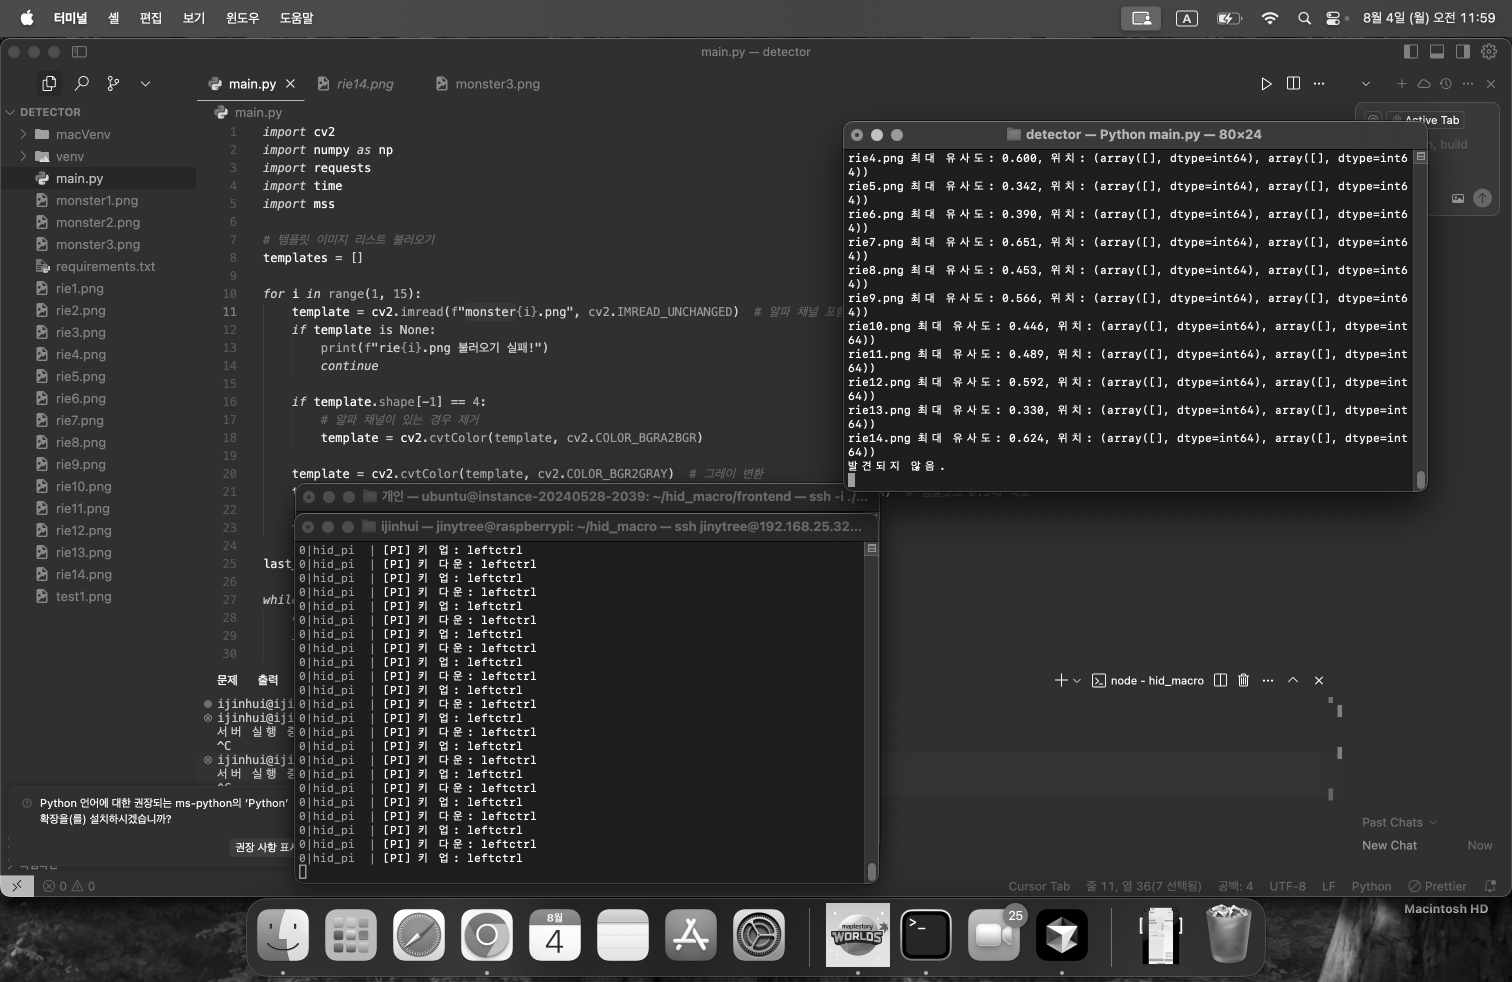
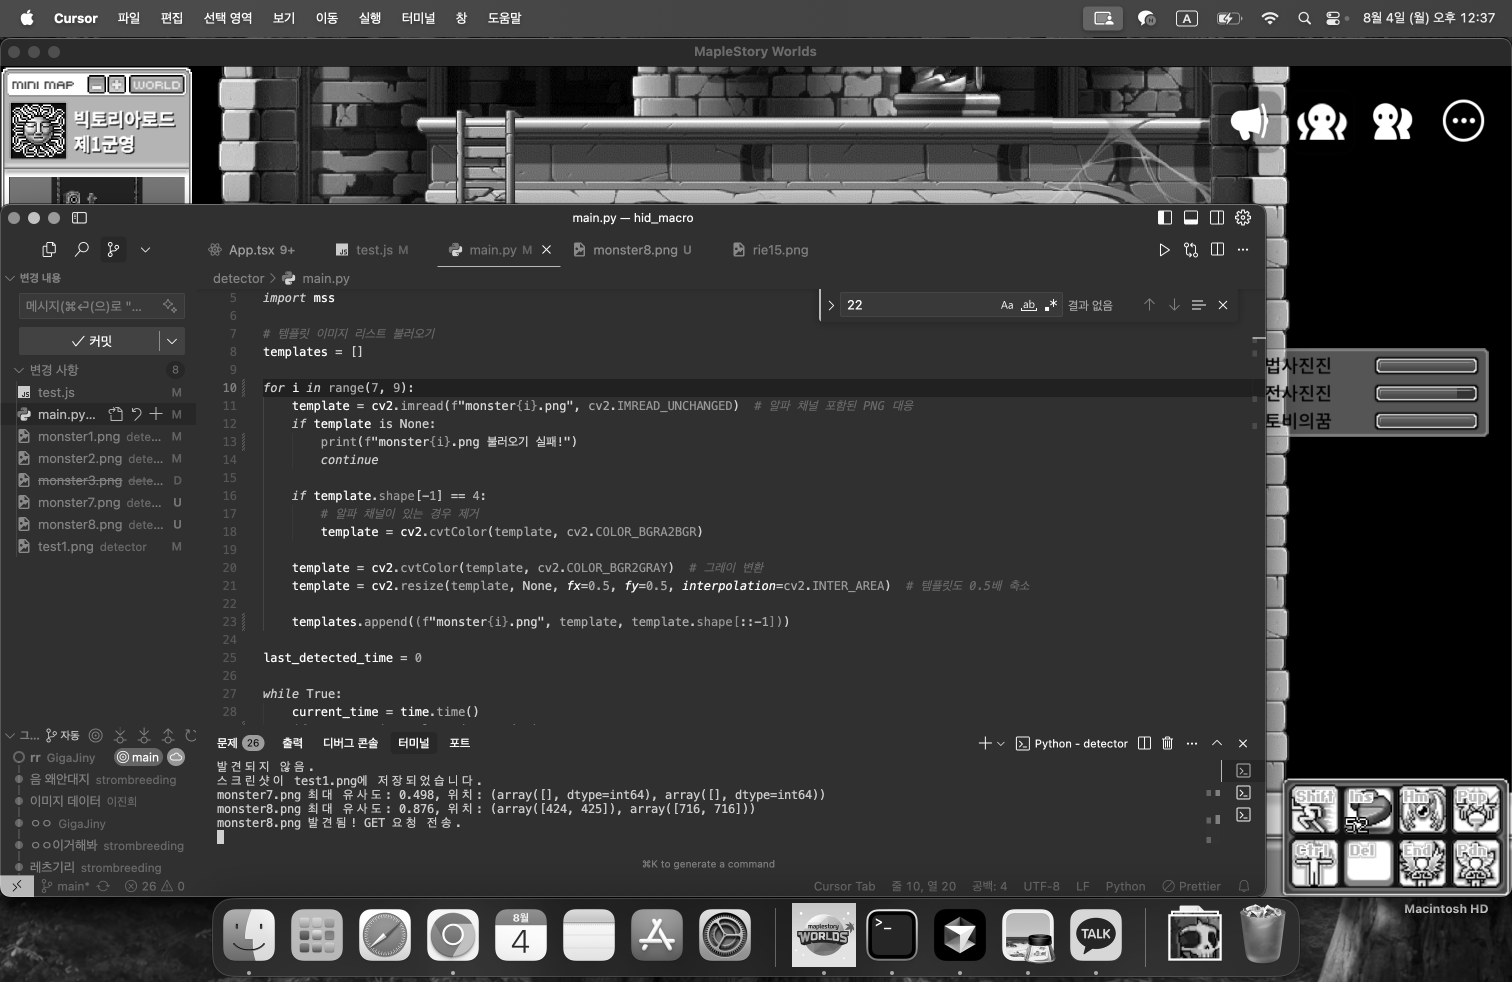
gogo

diff --git a/test.js b/test.js
@@ -14,15 +14,15 @@ app.get("/check", (req, res) => {
     res.send("already playing");
     return;
   }
-  plaing = true;
+  // plaing = true;
   player.play("./alaram.mp3", (err) => {
     if (err) {
       console.log("오디오 재생 중 오류 발생:", err);
     }
   });
-  setTimeout(() => {
-    plaing = false;
-  }, 22000);
+  // setTimeout(() => {
+  //   plaing = false;
+  // }, 22000);
   res.send("ok");
 });
 

diff --git a/detector/main.py b/detector/main.py
@@ -7,10 +7,10 @@ import mss
 # 템플릿 이미지 리스트 불러오기
 templates = []
 
-for i in range(1, 15):
+for i in range(7, 9):
     template = cv2.imread(f"monster{i}.png", cv2.IMREAD_UNCHANGED)  # 알파 채널 포함된 PNG 대응
     if template is None:
-        print(f"rie{i}.png 불러오기 실패!")
+        print(f"monster{i}.png 불러오기 실패!")
         continue
 
     if template.shape[-1] == 4:
@@ -20,13 +20,13 @@ for i in range(1, 15):
     template = cv2.cvtColor(template, cv2.COLOR_BGR2GRAY)  # 그레이 변환
     template = cv2.resize(template, None, fx=0.5, fy=0.5, interpolation=cv2.INTER_AREA)  # 템플릿도 0.5배 축소
 
-    templates.append((f"rie{i}.png", template, template.shape[::-1]))
+    templates.append((f"monster{i}.png", template, template.shape[::-1]))
 
 last_detected_time = 0
 
 while True:
     current_time = time.time()
-    if current_time - last_detected_time < 22:
+    if current_time - last_detected_time < 0.5:
         time.sleep(0.5)
         continue
 
